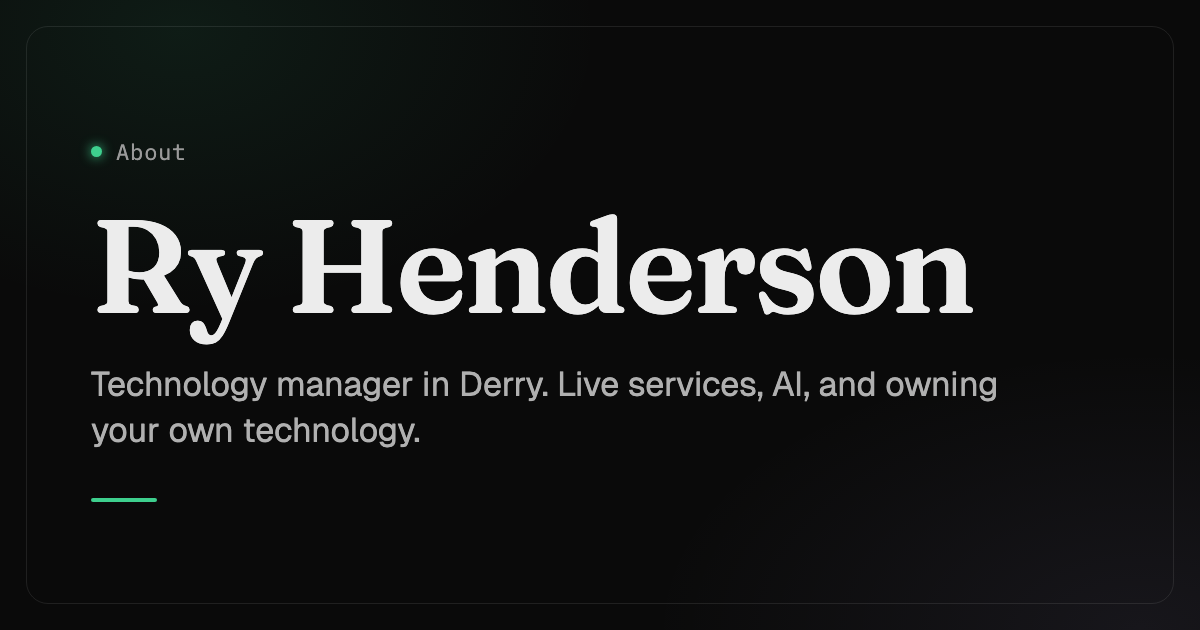
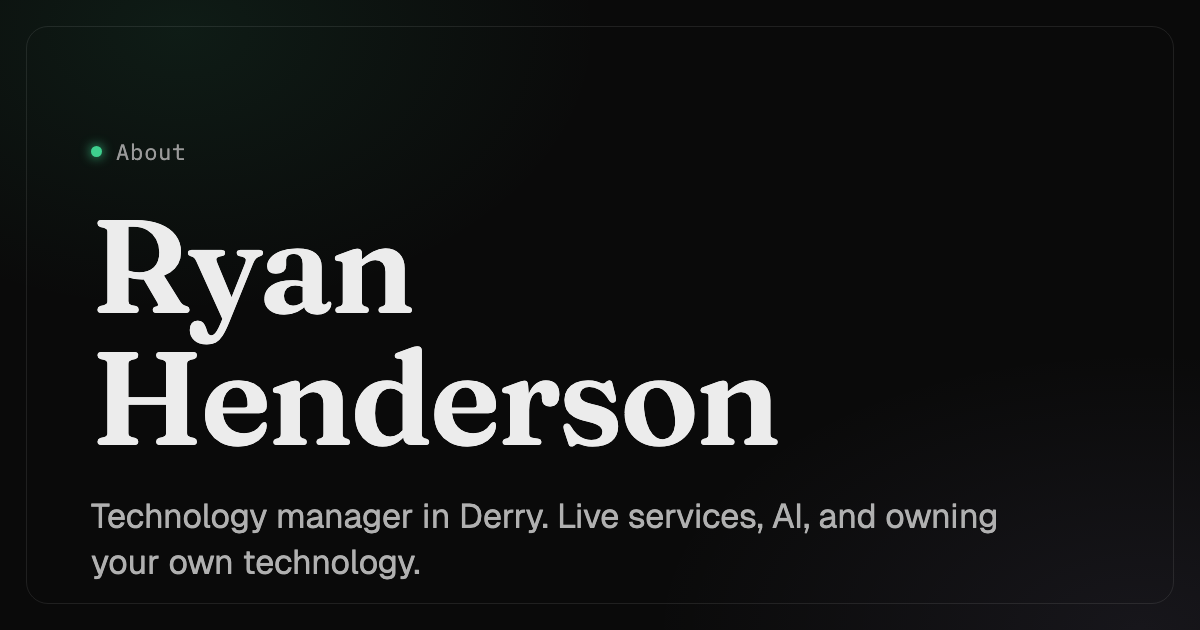
Use Ryan Henderson as the author name everywhere

diff --git a/src/config.ts b/src/config.ts
@@ -5,7 +5,7 @@ export const site = {
   name: 'rendoire',
   tagline: 'Essays on putting AI to work in the real world, and a guide to self-hosting.',
   description:
-    'Essays by Ry Henderson on putting AI to work in the real world, plus an AI learning path and self-hosting recommendations.',
+    'Essays by Ryan Henderson on putting AI to work in the real world, plus an AI learning path and self-hosting recommendations.',
   medium: 'https://rendoire.medium.com',
   github: 'https://github.com/rhenpri',
   linkedin: 'https://www.linkedin.com/in/rhenderson832/',
@@ -35,7 +35,7 @@ export const bookRel = hasReferral ? 'sponsored noopener' : 'noopener';
  * is running where.
  */
 export const author = {
-  name: 'Ry Henderson',
+  name: 'Ryan Henderson',
   role: 'Technology manager',
   location: 'Derry',
   short: 'Technology manager in Derry. I run live services and build with AI.',

diff --git a/scripts/buttondown-settings.py b/scripts/buttondown-settings.py
@@ -55,7 +55,7 @@ a { color: #3ecf8e; }
 .archive__input, input[type=email] { background: #0a0a0a !important; color: #ececec !important; border: 1px solid rgba(255,255,255,0.18) !important; }
 """
 
-HEADER = '<p class="rendoire-kicker"><strong>rendoire</strong> &nbsp;·&nbsp; essays by Ry Henderson</p>'
+HEADER = '<p class="rendoire-kicker"><strong>rendoire</strong> &nbsp;·&nbsp; essays by Ryan Henderson</p>'
 FOOTER = ('<hr><p class="rendoire-footer">You are getting this because you subscribed at '
           '<a href="https://rendoire.com">rendoire.com</a>. Hit reply any time: replies come straight to me.</p>'
           '<p class="rendoire-footer"><a href="https://rendoire.com/start/">Start here</a> &nbsp;·&nbsp; '
@@ -65,7 +65,7 @@ CONFIRM_TEXT = ('<p>Hi,</p>'
   '<p>Thanks for signing up to rendoire. One click and you are in:</p>'
   '<p><a href="{{ confirmation_url }}"><strong>Yes, send me new essays</strong></a></p>'
   '<p>If you did not sign up, ignore this email and you will not hear from me again.</p>'
-  '<p>Ry</p>')
+  '<p>Ryan</p>')
 
 WELCOME_TEXT = ("Hi,\n\nYou're in. Thanks for subscribing.\n\n"
   "Here's the deal. When I publish a new essay on [rendoire.com](https://rendoire.com), it lands in your inbox the same day, in full. "
@@ -75,12 +75,12 @@ WELCOME_TEXT = ("Hi,\n\nYou're in. Thanks for subscribing.\n\n"
   "- [The Models Were the Easy Part](https://rendoire.com/blog/the-models-were-the-easy-part/): why most AI pilots stall, and it's not the models.\n"
   "- [The Safety Was Never in the Model](https://rendoire.com/blog/the-safety-was-never-in-the-model/): why guardrails have to be yours.\n"
   "- [I Just Broke My Kindle & It Got Way Better](https://rendoire.com/blog/i-just-broke-my-kindle-and-it-got-way-better/): a 2013 Paperwhite with no Amazon account.\n\n"
-  "And if anything I write makes you disagree, or reminds you of something you've seen, just hit reply. Replies come straight to me.\n\nRy")
+  "And if anything I write makes you disagree, or reminds you of something you've seen, just hit reply. Replies come straight to me.\n\nRyan")
 
 settings = {
   'name': 'rendoire',
-  'description': 'Essays by Ry Henderson on putting AI to work in the real world, and on owning your own technology. Each new essay, straight to your inbox.',
-  'from_name': 'Ry Henderson',
+  'description': 'Essays by Ryan Henderson on putting AI to work in the real world, and on owning your own technology. Each new essay, straight to your inbox.',
+  'from_name': 'Ryan Henderson',
   'locale': 'en-GB',
   'timezone': 'Europe/London',
   'template': 'modern',
